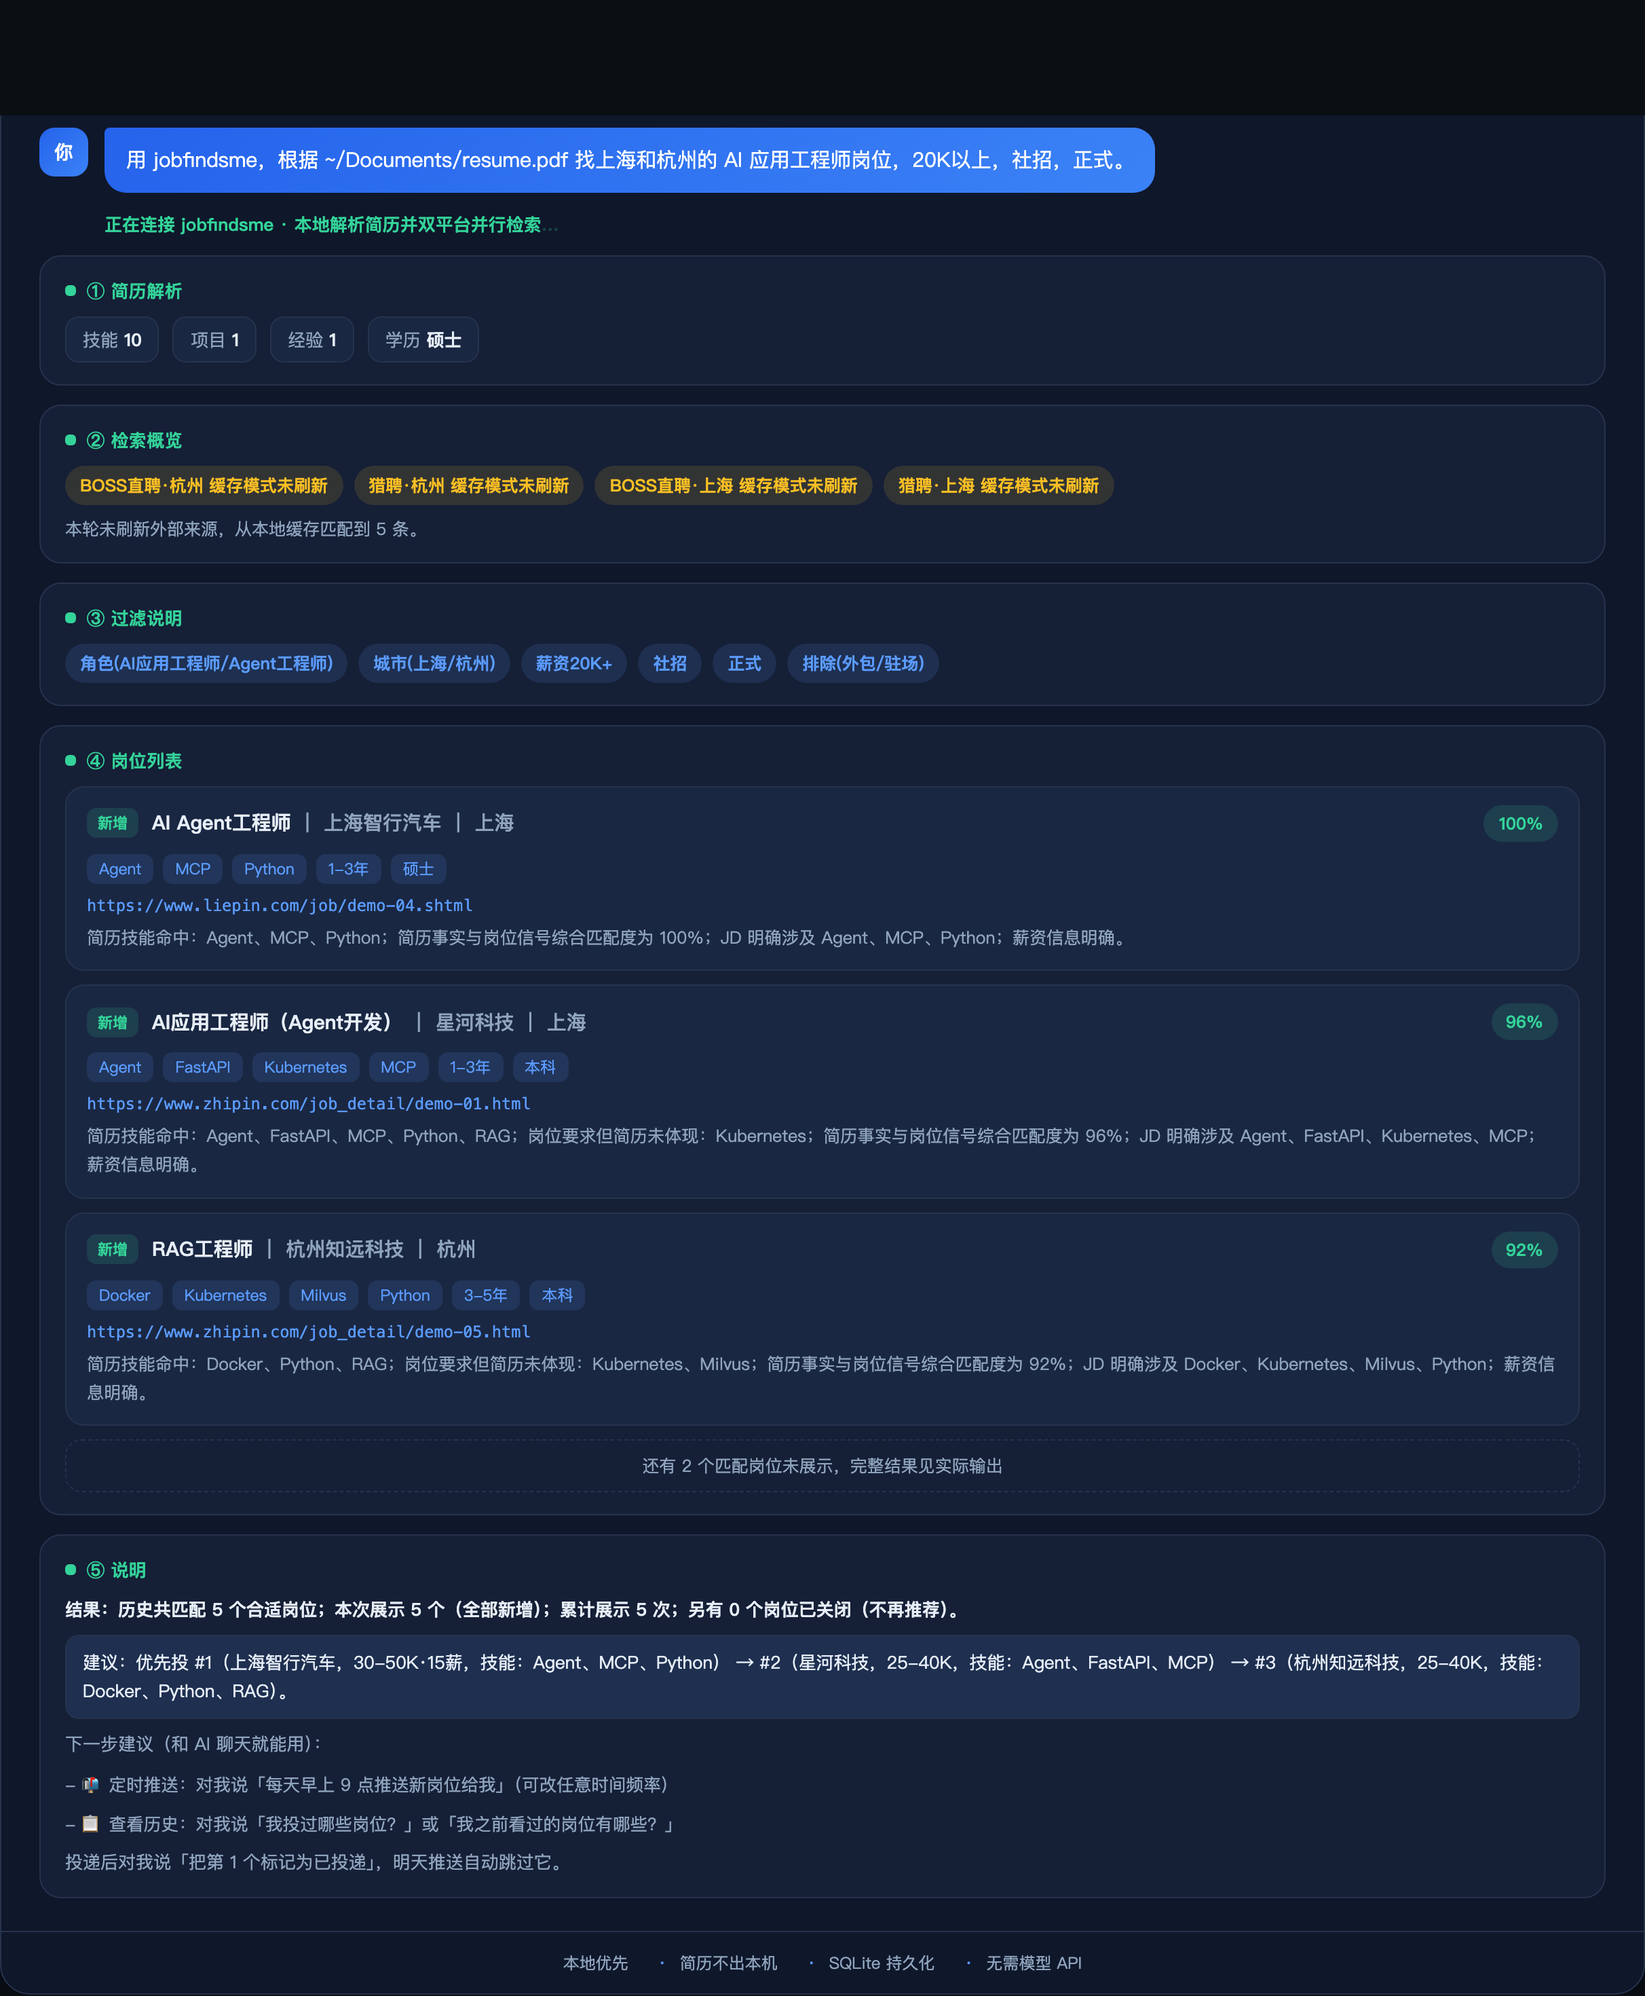
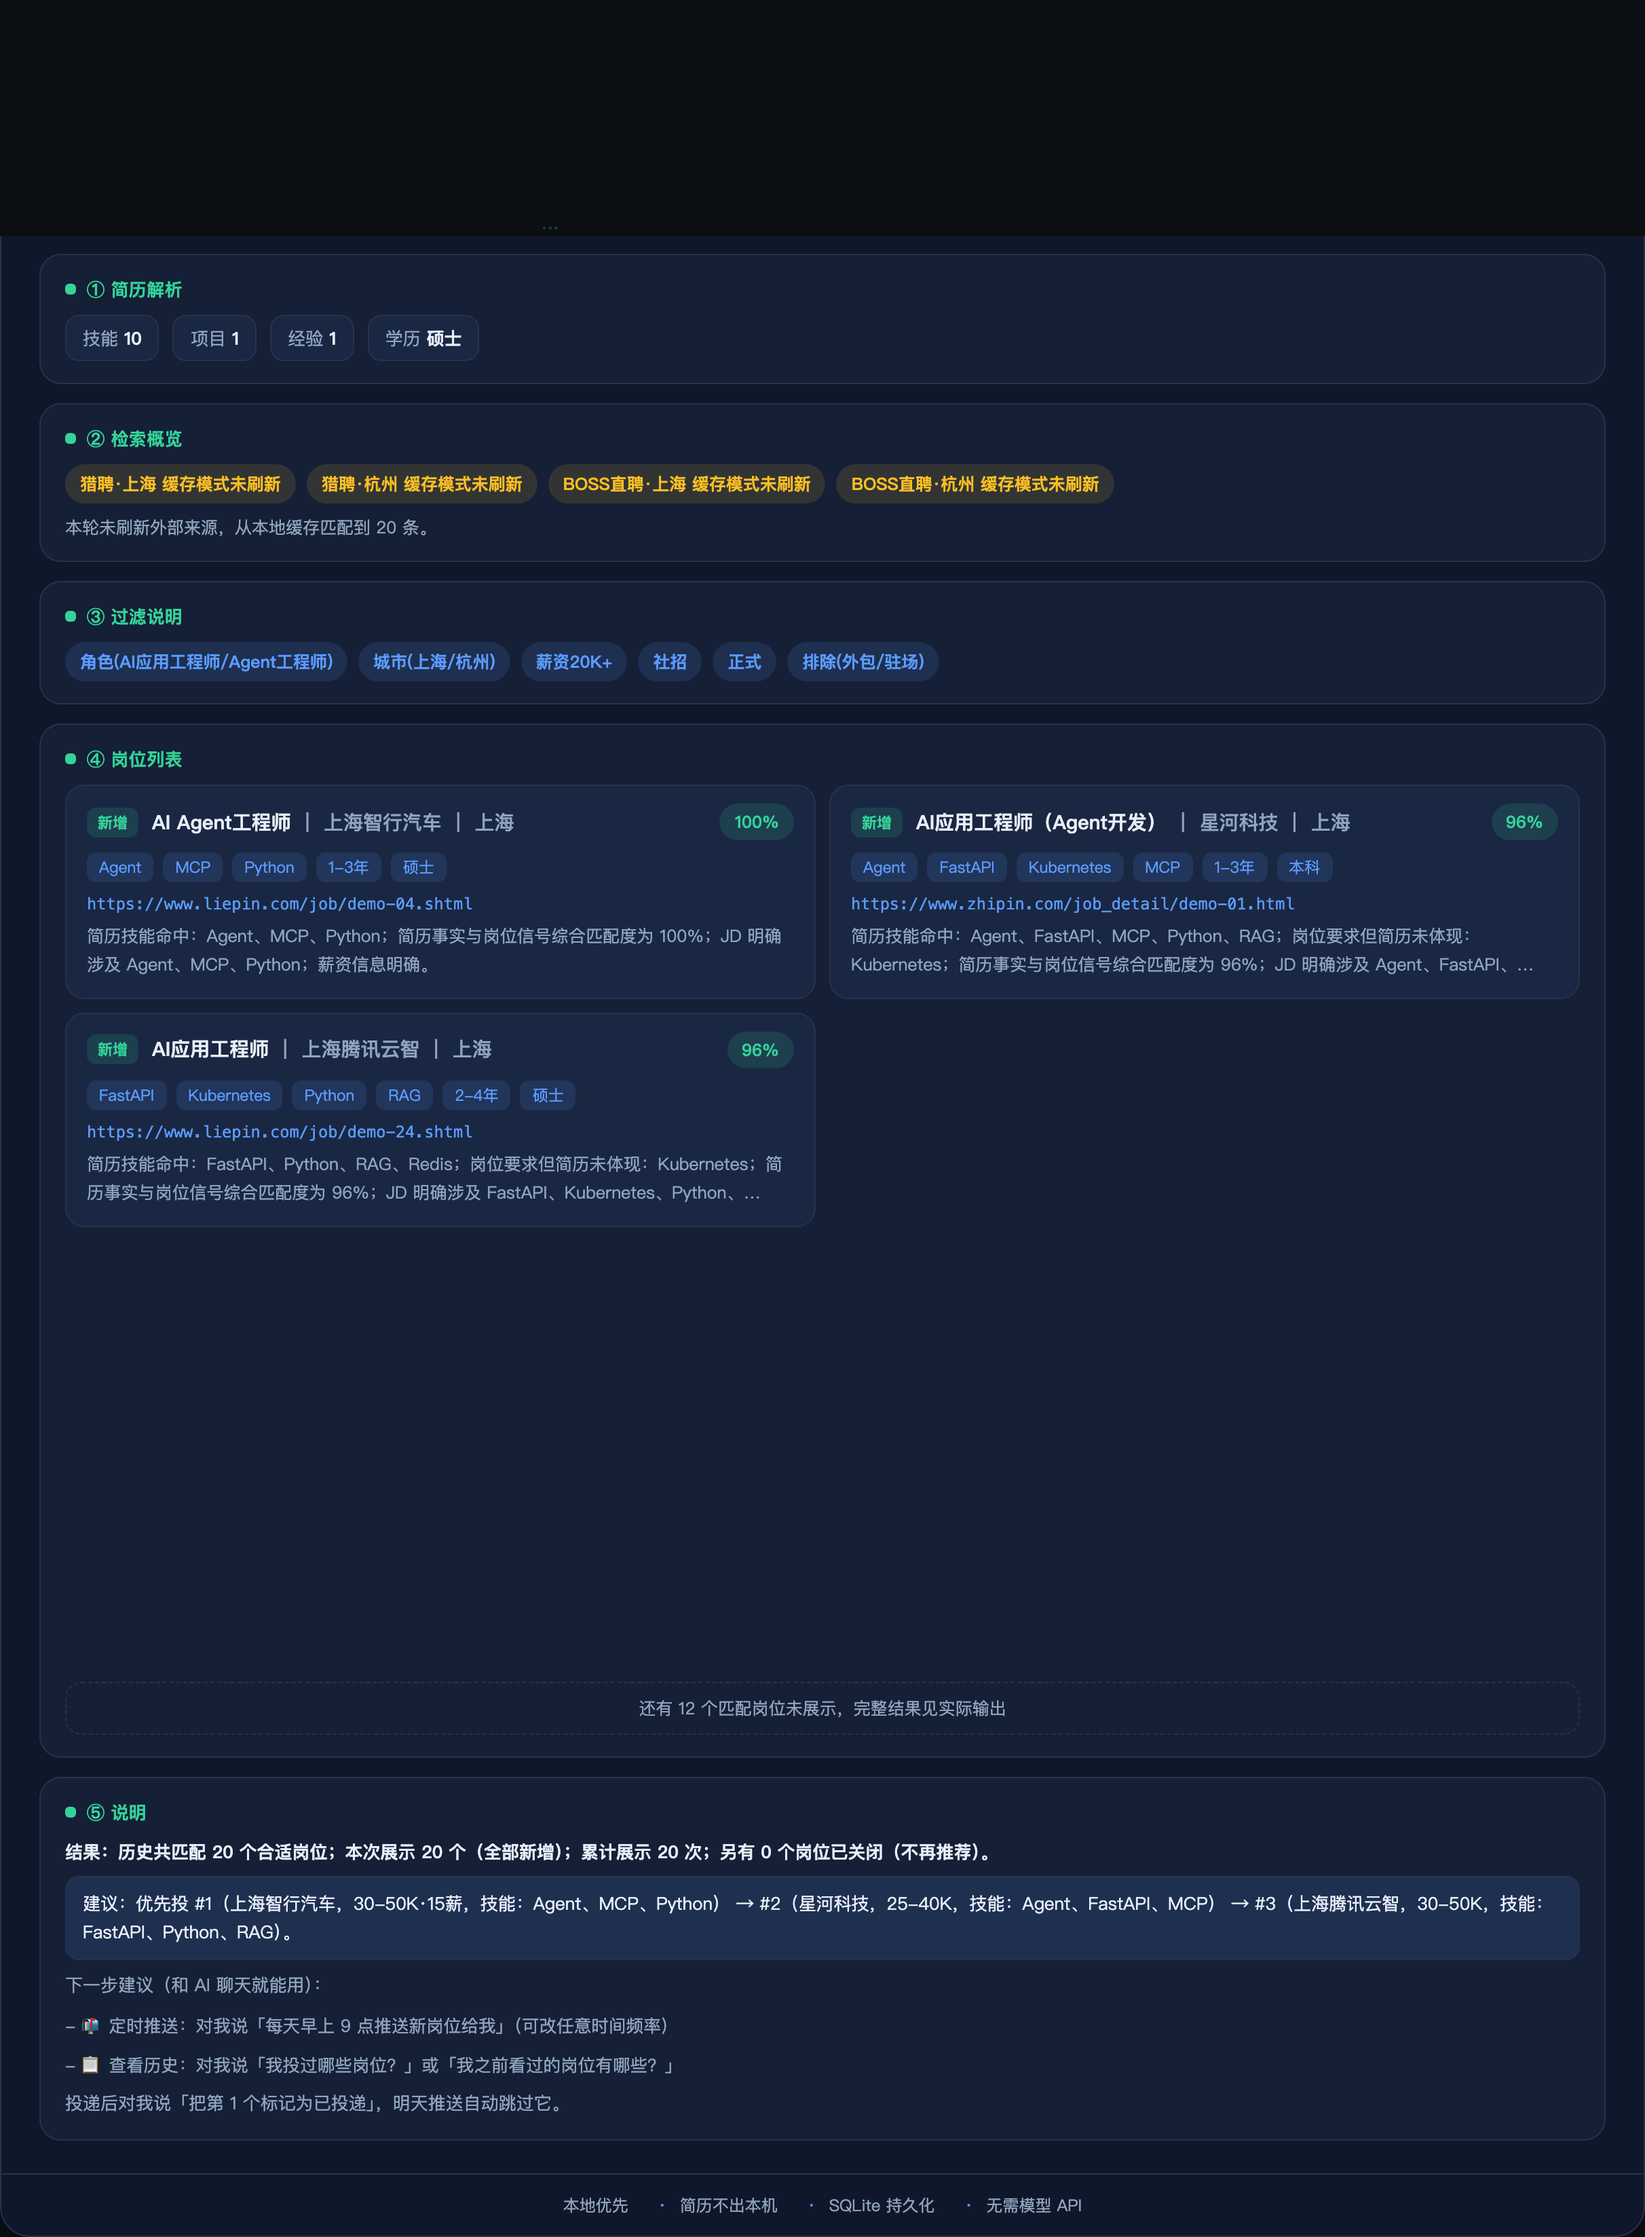
docs: demo shows 20 matched jobs with two-column cards

diff --git a/scripts/readme_demo/render_demo.py b/scripts/readme_demo/render_demo.py
@@ -72,6 +72,9 @@ color:var(--blue);font-weight:600}
 .caption{font-size:12.5px;color:var(--muted);margin-top:9px}
 .job{border:1px solid var(--line);border-radius:14px;background:var(--card2);
 padding:13px 15px;margin-bottom:10px}
+.jobs{display:grid;grid-template-columns:1fr 1fr;gap:10px}
+.jobs .job{margin-bottom:0}
+.jobs .reason{display:-webkit-box;-webkit-line-clamp:2;-webkit-box-orient:vertical;overflow:hidden}
 .job .top{display:flex;align-items:center;gap:10px}
 .tag{font-size:11px;font-weight:700;padding:3px 8px;border-radius:7px;background:var(--chip2);color:var(--green)}
 .job h4{font-size:14.5px;font-weight:700;color:var(--text);flex:1}
@@ -260,8 +263,8 @@ def render(data: dict, theme: str) -> str:
             f'<div class="link">{esc(job["link"])}</div>'
             f'<div class="reason">{esc(job["reason"])}</div></div>'
         )
-    job_list = "".join(jobs[:3])
-    extra = len(p["jobs"]) - 3
+    job_list = f'<div class="jobs">{"".join(jobs[:8])}</div>'
+    extra = len(p["jobs"]) - 8
     more = (
         f'<div class="more" id="more">还有 {extra} 个匹配岗位未展示，完整结果见实际输出</div>'
         if extra > 0

diff --git a/scripts/readme_demo/drive_mcp.py b/scripts/readme_demo/drive_mcp.py
@@ -132,7 +132,7 @@ def main() -> None:
                     "refresh_mode": "cache",
                     "include_seen": True,
                     "use_profile": True,
-                    "limit": 5,
+                    "limit": 20,
                 },
             },
         }
